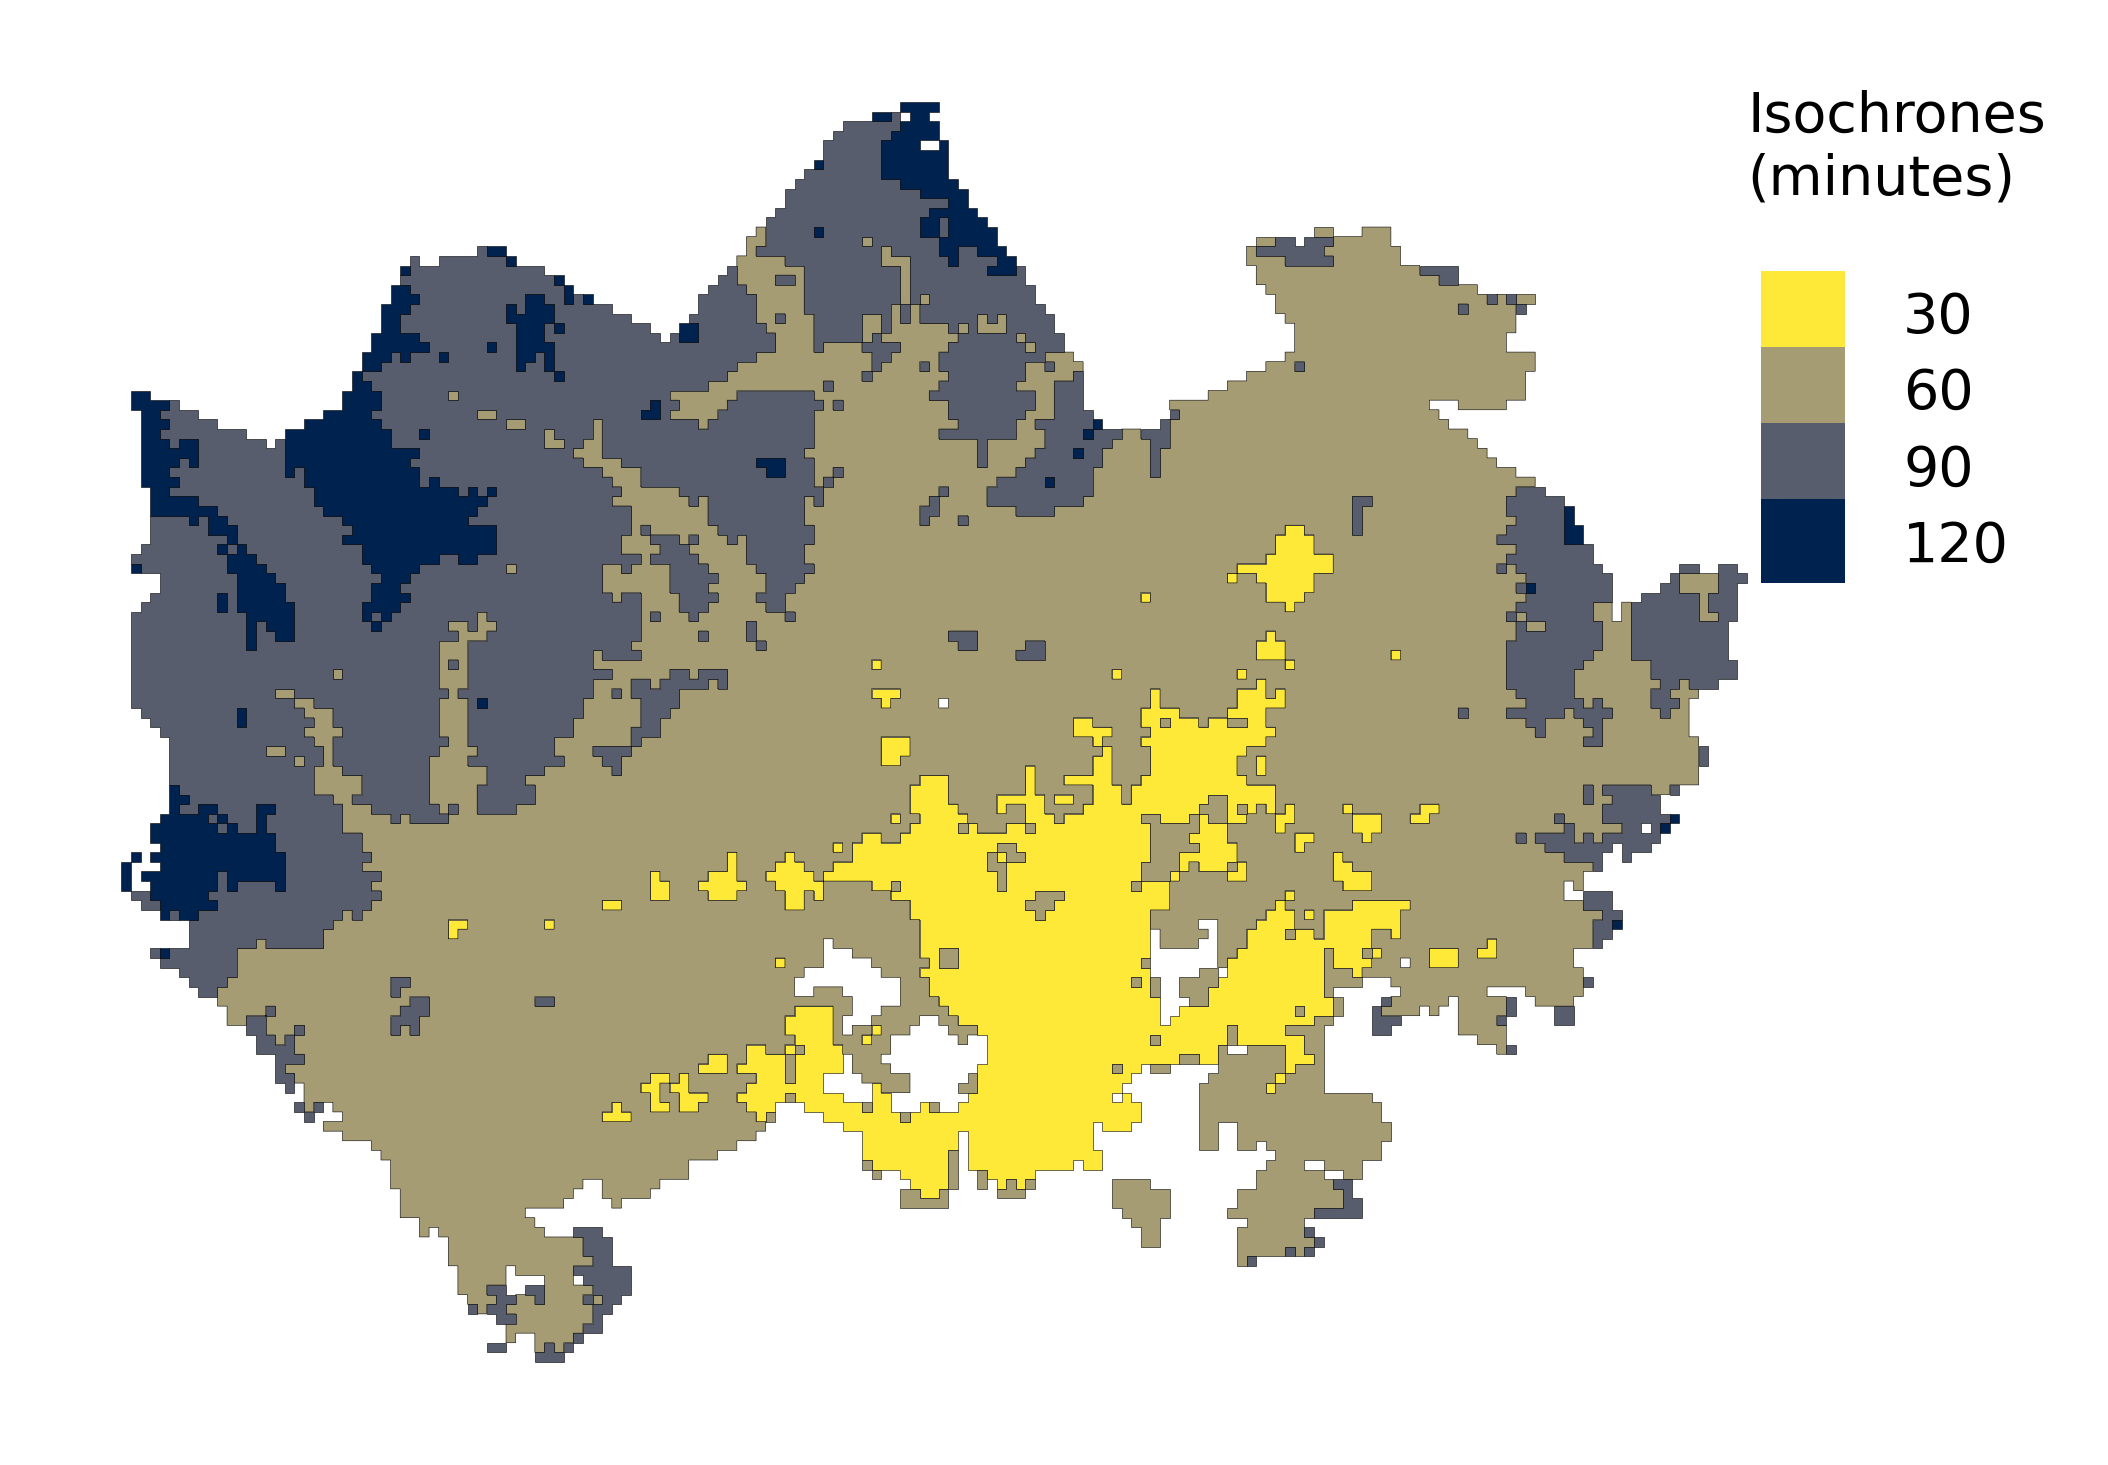
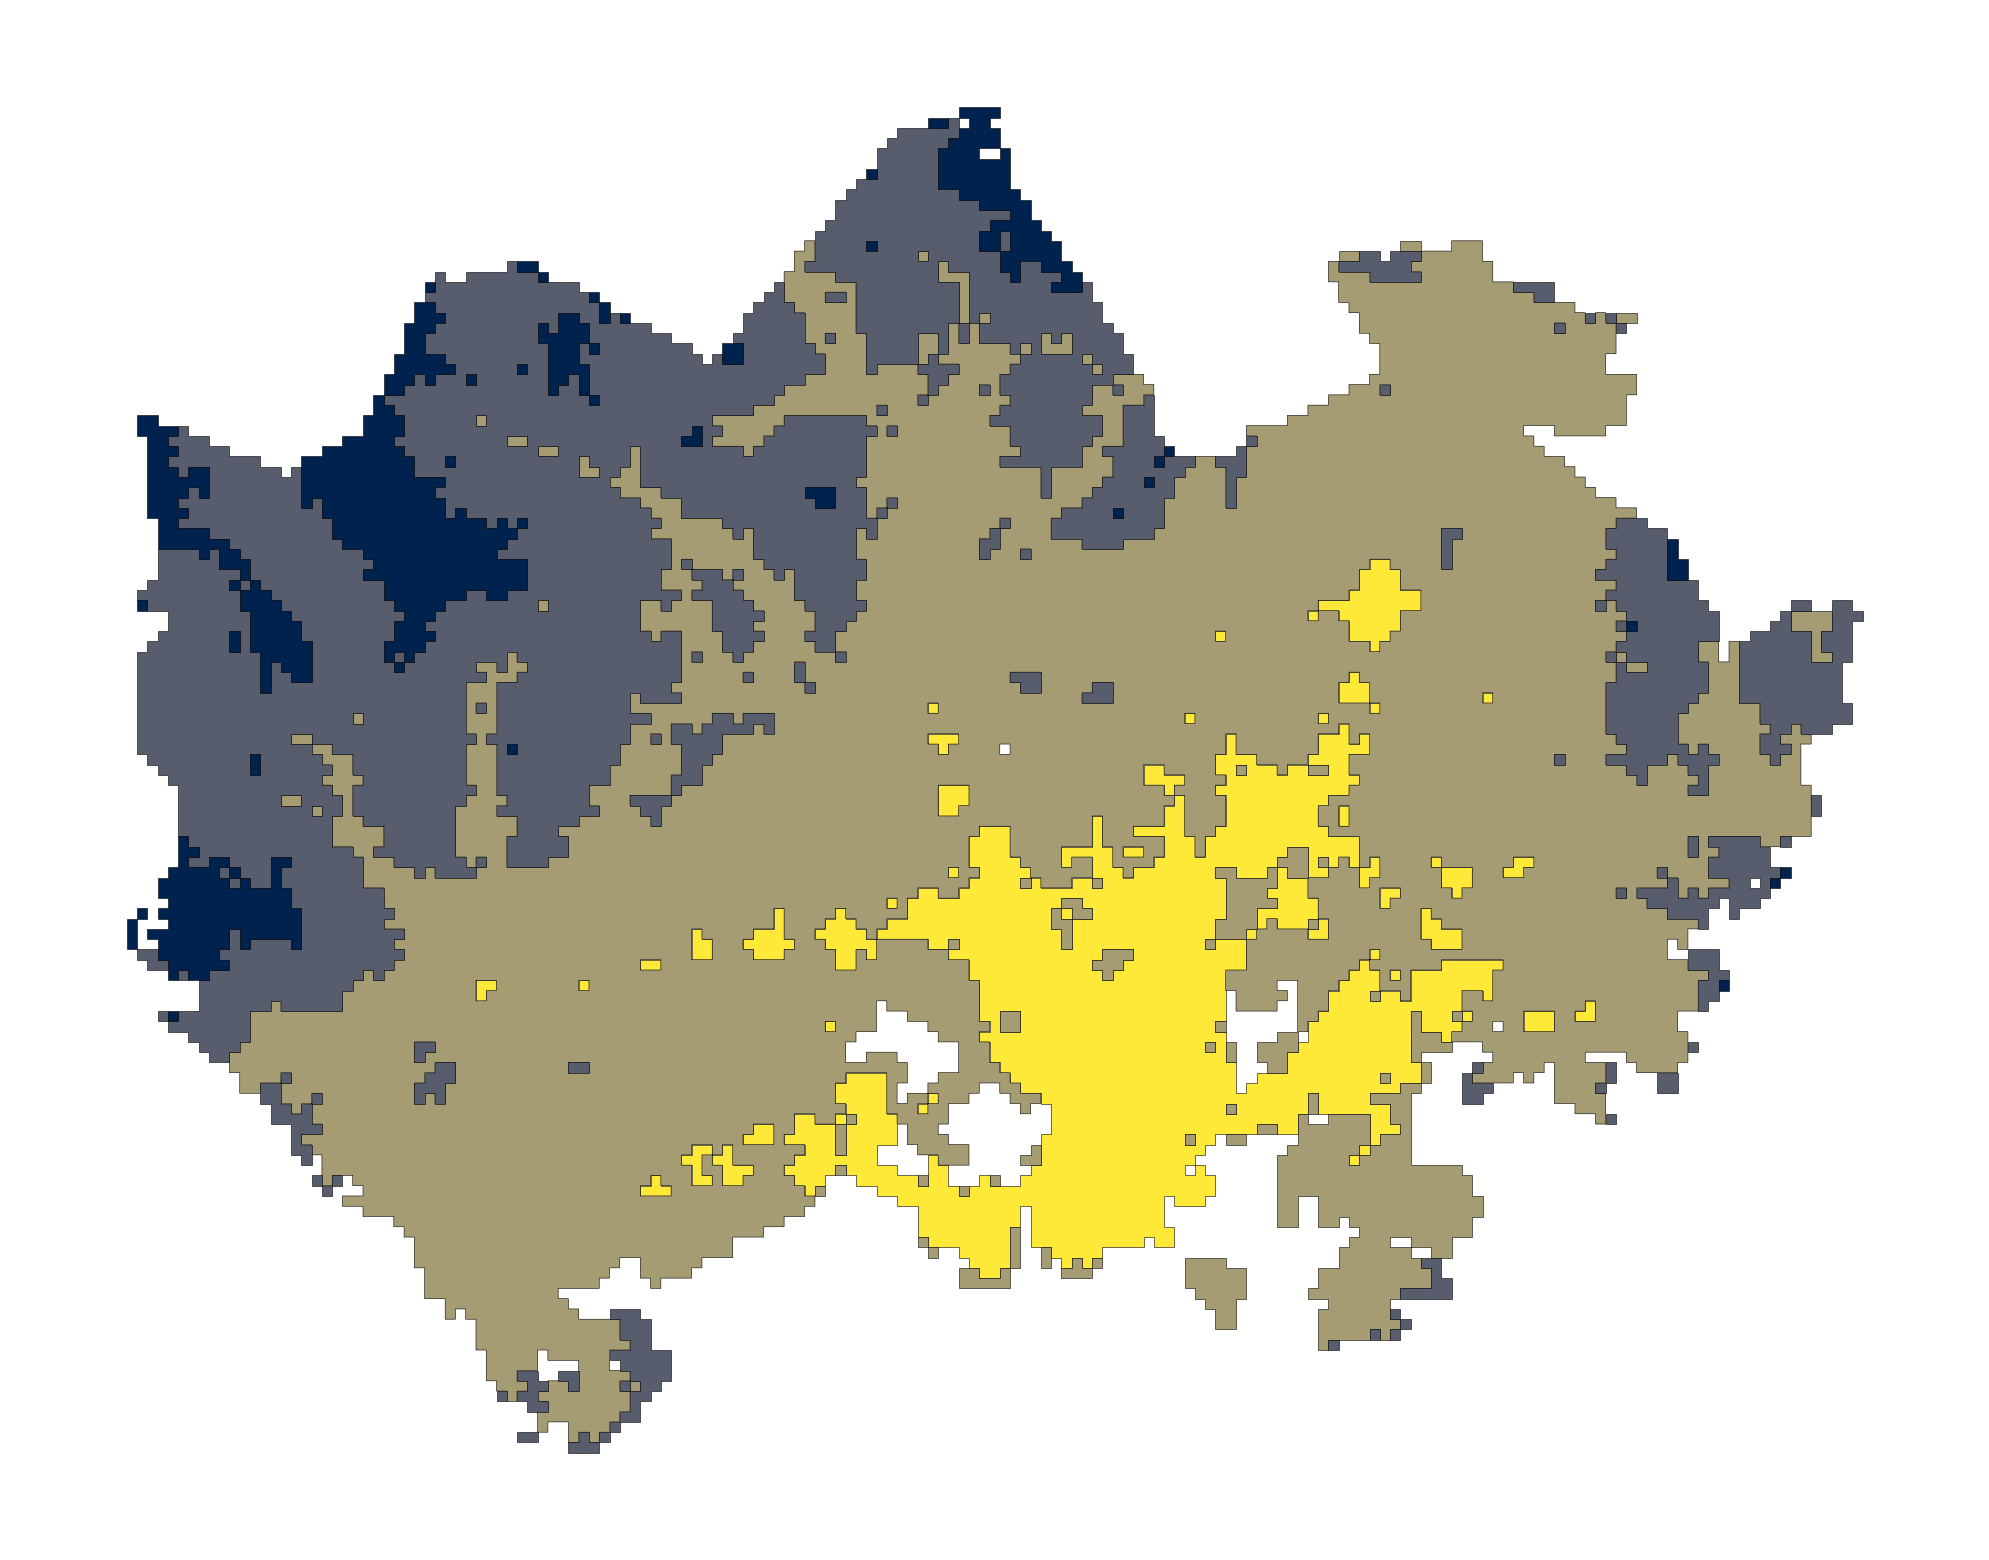
figs

Changed region(s): [[0.0312, 0.0614, 0.9663, 0.9522], [0.8105, 0.0614, 0.9663, 0.1536], [0.2805, 0.6143, 0.3117, 0.6451]]

diff --git a/thesis/sections/methods.tex b/thesis/sections/methods.tex
@@ -334,24 +334,31 @@ I assessed four types of preprocessing approaches:
 \begin{figure}[H]
 	\centering
 	\begin{subfigure}[b]{0.5\textwidth}
-		\centering
-		\includegraphics[width=\textwidth]{visual/figures/ttm/isochrone_interval_10}
-		\caption{Isochrone interval = 10 minutes}
+		\includegraphics[width=\textwidth]{visual/figures/ttm/isochrone_interval_1}
+		\caption{No isochrones}
+		\label{fig:interval 1}
+	\end{subfigure}%
+	\hfill
+	\begin{subfigure}[b]{0.5\textwidth}
+		\includegraphics[width=\textwidth]{visual/figures/ttm/isochrone_interval_5}
+		\caption{Isochrone interval = 5 minutes}
 		\label{fig:interval 10}
 	\end{subfigure}%
 	\hfill
 	\begin{subfigure}[b]{0.5\textwidth}
-		\centering
-		\includegraphics[width=\textwidth]{visual/figures/ttm/isochrone_interval_20}
-		\caption{Isochrone interval = 20 minutes}
-		\label{fig:interval 20}
+		\includegraphics[width=\textwidth]{visual/figures/ttm/isochrone_interval_15}
+		\caption{Isochrone interval = 15 minutes}
+		\label{fig:interval 15}
 	\end{subfigure}%
 	\hfill
 	\begin{subfigure}[b]{0.5\textwidth}
-		\centering
 		\includegraphics[width=\textwidth]{visual/figures/ttm/isochrone_interval_30}
 		\caption{Isochrone interval = 30 minutes}
 		\label{fig:interval 30}
+	\end{subfigure}%
+	\hfill
+	\begin{subfigure}[b]{0.4\textwidth}
+		\includegraphics[width=\textwidth]{visual/figures/ttm/isochrone_cbar}
 	\end{subfigure}%
 	\caption{Travel time to Helsinki railway station by public transport mapped with isochrones of different intervals}
 	\label{fig:isochrone intervals}
